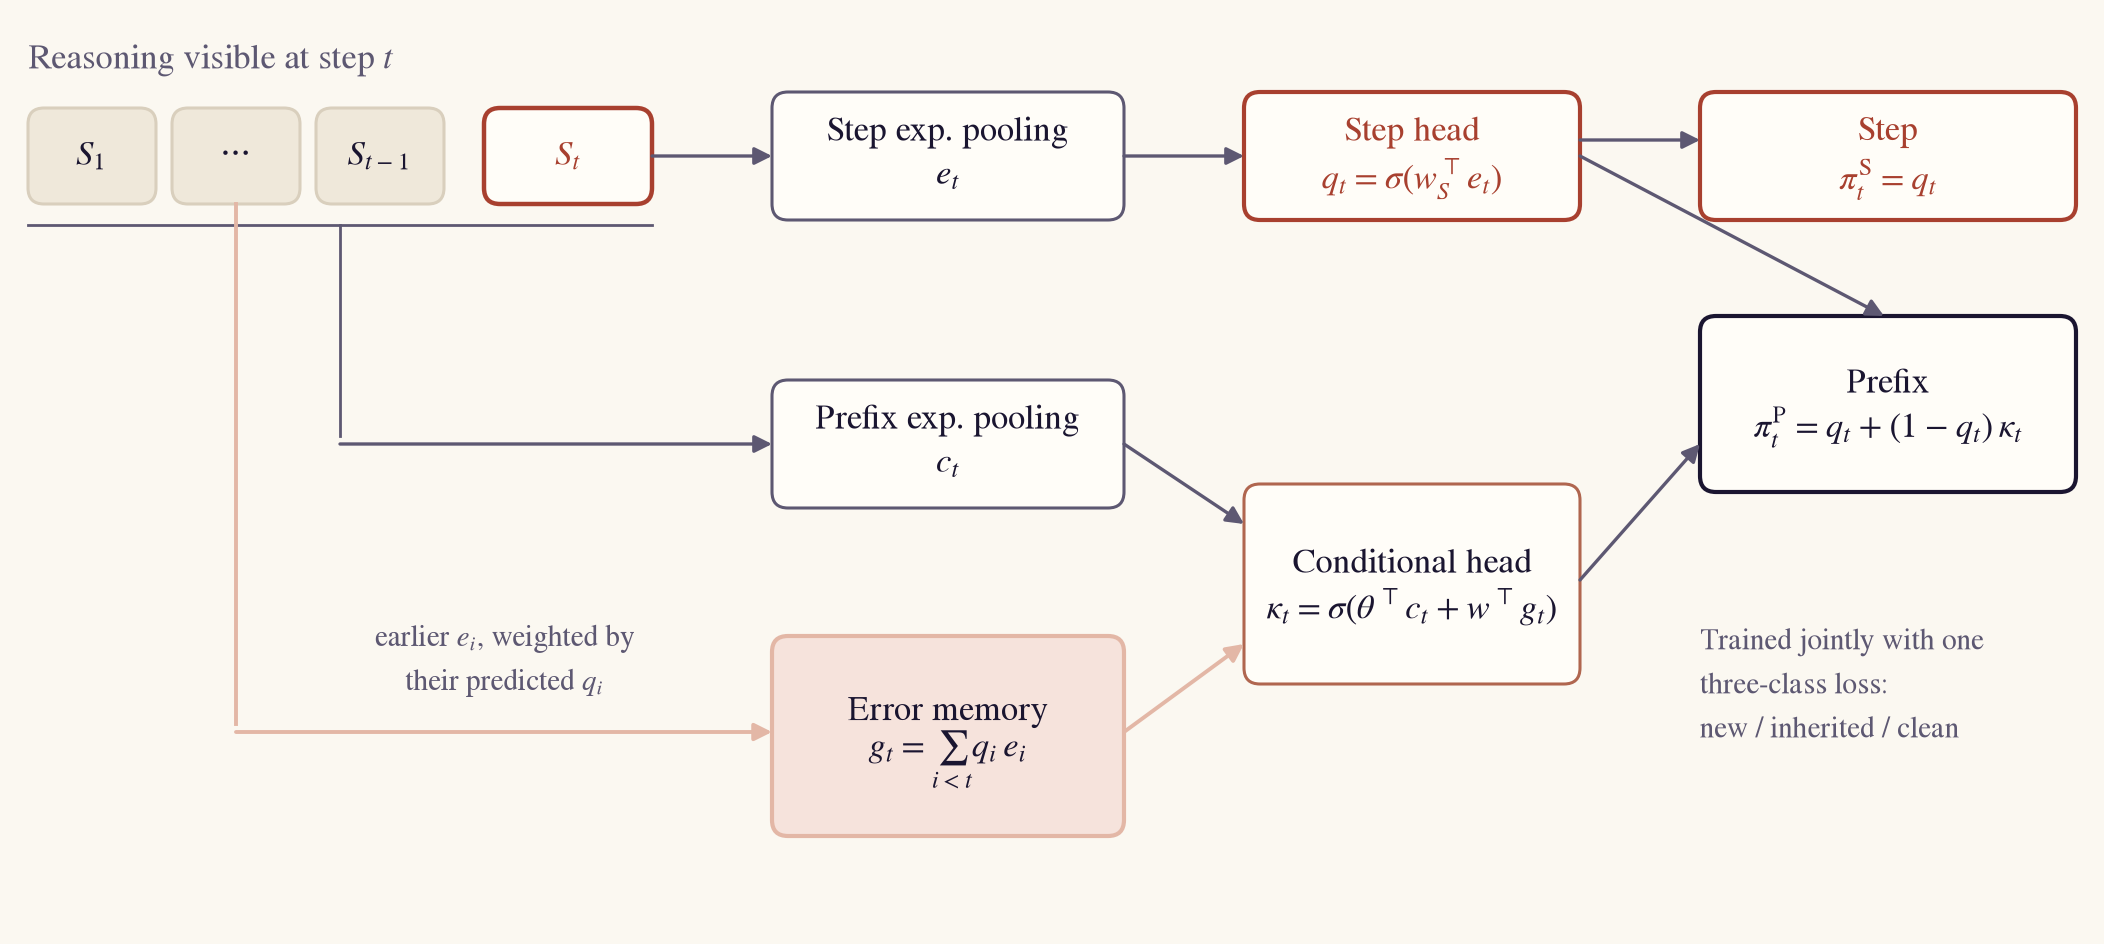
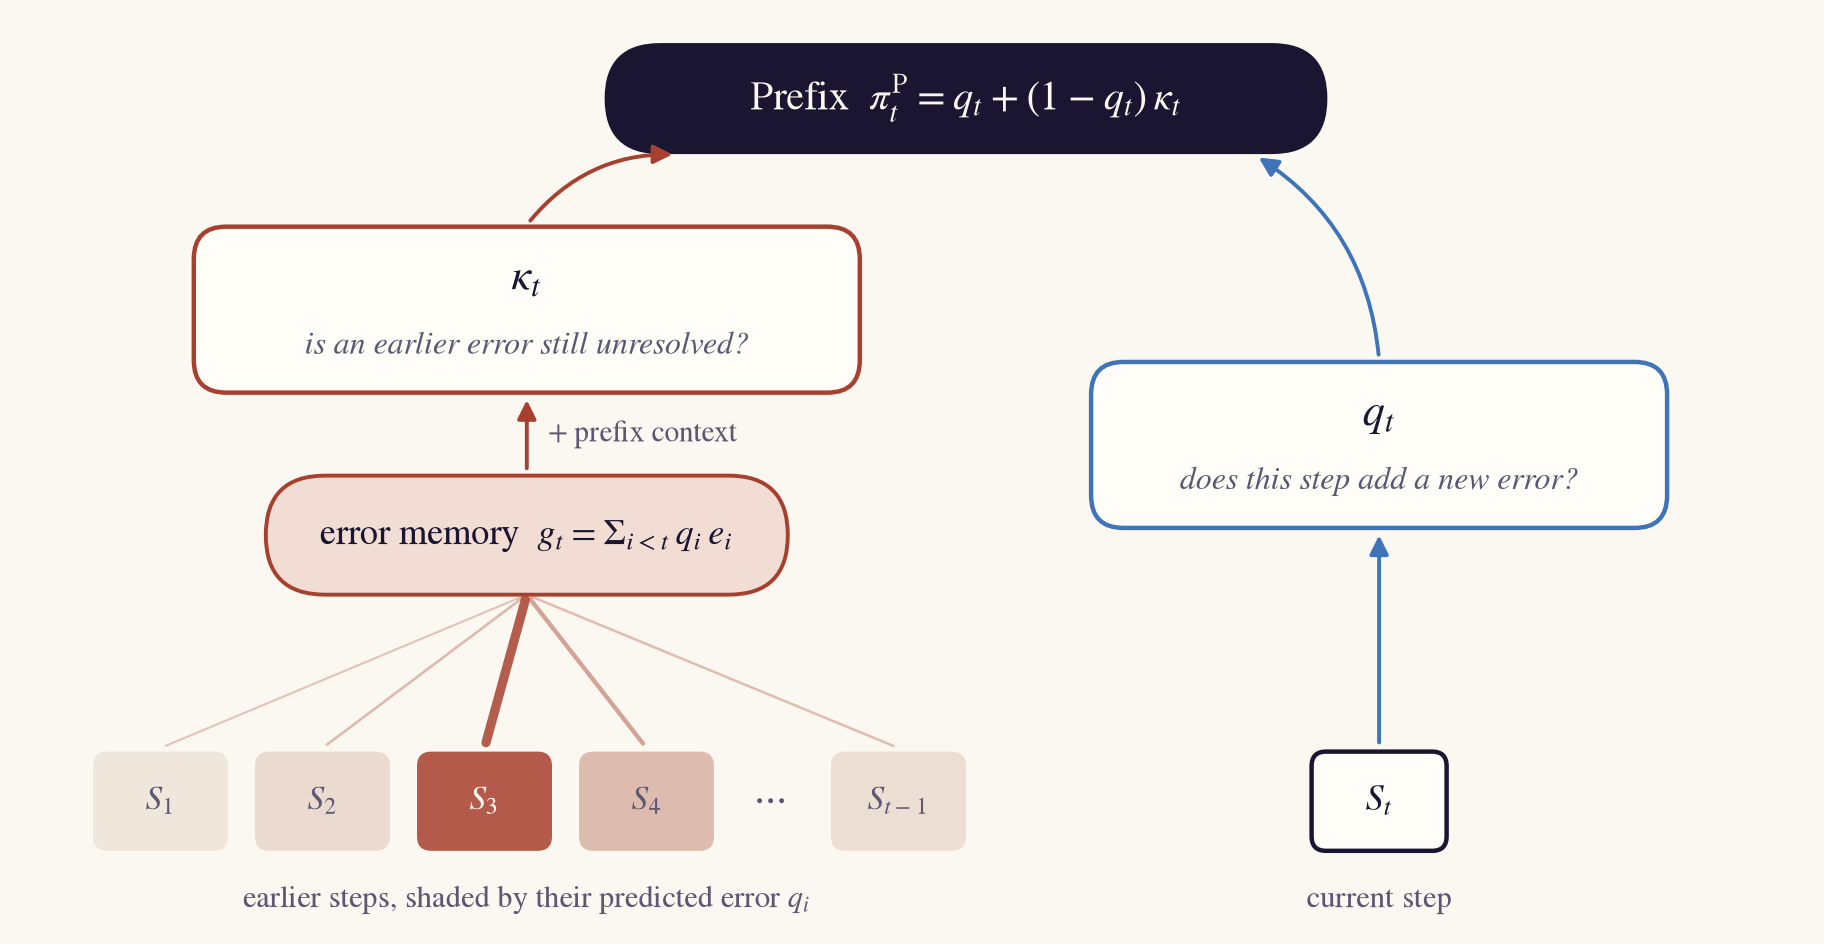
weekly: restructure 2026-11-18 report and redraw the A2 schematic
Rename sections to Background, Theory, Challenge, Method, Result and To do;
add a dataset overview (3 models x 5 domains, 15,697 trajectories, 1.45M
labelled steps); rephrase the Prefix diagnosis and challenge; replace the
detailed A2 diagram with a high-level schematic; list read-out and kappa
design as next steps.

diff --git a/weekly/scripts/2026-11-18_dataset_a2.py b/weekly/scripts/2026-11-18_dataset_a2.py
@@ -1,0 +1,141 @@
+#!/usr/bin/env python3
+"""Dataset overview and high-level A2 schematic for the 2026-11-18 weekly report.
+
+Dataset counts are computed from the frozen 6:2:2 release (labels.jsonl of every model/domain/split; 15,697
+trajectories, 1,445,280 labelled steps). Run from the repository root with the dataset root as argument:
+
+    python weekly/scripts/2026-11-18_dataset_a2.py <streaming_hd_new root>
+"""
+import json
+import sys
+from pathlib import Path
+
+import matplotlib
+
+matplotlib.use("Agg")
+import matplotlib.pyplot as plt
+import numpy as np
+from matplotlib.colors import LinearSegmentedColormap, LogNorm
+from matplotlib.patches import FancyArrowPatch, FancyBboxPatch
+
+OUT = Path("weekly/assets/2026-11-18")
+SURFACE, RAISE, INK, INK2, LINE = "#fbf8f1", "#fffdf8", "#1a1530", "#5d5872", "#d9cfbd"
+ACCENT, ACCENT_SOFT, BLUE = "#a8402f", "#f2ddd5", "#3f74b8"
+plt.rcParams.update({"font.family": "STIXGeneral", "mathtext.fontset": "stix", "font.size": 12,
+                     "figure.facecolor": SURFACE, "axes.facecolor": SURFACE, "savefig.facecolor": SURFACE})
+MODELS = [("qwen3_8_27b", "Qwen3.8-27B"), ("deepseek_r1_distill_llama_8b", "DeepSeek-R1-Distill-Llama-8B"),
+          ("gemma_4_31b_it", "Gemma-4-31B-it")]
+DOMAINS = ["Math", "Science", "Logic", "Multi-hop", "Factuality"]
+
+
+def save(fig, name):
+    fig.savefig(OUT / name, bbox_inches="tight", pad_inches=0.06)
+    plt.close(fig)
+    print("wrote", OUT / name)
+
+
+def counts(root):
+    traj = np.zeros((3, 5), int); steps = np.zeros((3, 5), int)
+    for i, (m, _) in enumerate(MODELS):
+        for j, d in enumerate(DOMAINS):
+            for split in ("train", "val", "test"):
+                for line in open(root / m / d / split / "annotations/labels.jsonl"):
+                    traj[i, j] += 1; steps[i, j] += len(json.loads(line)["labels"]["step"])
+    return traj, steps
+
+
+def fmt(n):
+    return f"{n / 1e6:.2f}M" if n >= 1e6 else f"{n / 1e3:.0f}k" if n >= 1e4 else f"{n / 1e3:.1f}k"
+
+
+def dataset(root):
+    traj, steps = counts(Path(root))
+    cmap = LinearSegmentedColormap.from_list("seq", ["#f7ebe4", "#e3b7a6", "#c46f58", "#8a2f22"])
+    norm = LogNorm(vmin=5e3, vmax=5e5)
+    fig, ax = plt.subplots(figsize=(10.2, 3.9), dpi=200)
+    fig.subplots_adjust(0, 0, 1, 1)
+    ax.set_xlim(-2.9, 6.25); ax.set_ylim(-1.05, 3.75); ax.axis("off")
+    W, H, G = 1.0, 1.0, 0.06
+    for j, d in enumerate(DOMAINS):
+        ax.text(j + 0.5, 3.4, d, ha="center", va="center", fontsize=13, color=INK)
+    ax.text(5.65, 3.4, "Total", ha="center", va="center", fontsize=13, color=INK2)
+    for i, (_, name) in enumerate(MODELS):
+        y = 2 - i
+        ax.text(-0.15, y + 0.5, name, ha="right", va="center", fontsize=12.5, color=INK)
+        for j in range(5):
+            v = steps[i, j]; fc = cmap(norm(v)); dark = norm(v) > 0.55
+            ax.add_patch(FancyBboxPatch((j + G, y + G), W - 2 * G, H - 2 * G, boxstyle="round,pad=0,rounding_size=0.06",
+                                        fc=fc, ec="none"))
+            tc = SURFACE if dark else INK
+            ax.text(j + 0.5, y + 0.6, fmt(v), ha="center", va="center", fontsize=15, color=tc, weight="bold")
+            ax.text(j + 0.5, y + 0.3, f"{traj[i, j]:,} traj.", ha="center", va="center", fontsize=10,
+                    color=SURFACE if dark else INK2)
+        ax.text(5.65, y + 0.6, fmt(steps[i].sum()), ha="center", va="center", fontsize=13, color=INK)
+        ax.text(5.65, y + 0.3, f"{traj[i].sum():,} traj.", ha="center", va="center", fontsize=10, color=INK2)
+    ax.plot([0.05, 4.95], [-0.02, -0.02], color=LINE, lw=1)
+    for j in range(5):
+        ax.text(j + 0.5, -0.3, fmt(steps[:, j].sum()), ha="center", va="center", fontsize=13, color=INK)
+        ax.text(j + 0.5, -0.6, f"{traj[:, j].sum():,} traj.", ha="center", va="center", fontsize=10, color=INK2)
+    ax.text(-0.15, -0.45, "Total", ha="right", va="center", fontsize=12.5, color=INK2)
+    ax.text(5.65, -0.3, fmt(steps.sum()), ha="center", va="center", fontsize=13.5, color=ACCENT, weight="bold")
+    ax.text(5.65, -0.6, f"{traj.sum():,} traj.", ha="center", va="center", fontsize=10, color=INK2)
+    ax.text(-2.85, -0.95, "Cells: labelled steps (colour, log scale) and trajectories; each trajectory has Step, Prefix and Answer labels.",
+            fontsize=10, color=INK2, va="center")
+    save(fig, "dataset.png")
+
+
+def node(ax, x, y, w, h, title, sub, ec, fc=RAISE, tc=INK):
+    ax.add_patch(FancyBboxPatch((x - w / 2, y - h / 2), w, h, boxstyle="round,pad=0,rounding_size=0.18", fc=fc, ec=ec, lw=1.6))
+    ax.text(x, y + 0.17, title, ha="center", va="center", fontsize=16, color=tc)
+    ax.text(x, y - 0.2, sub, ha="center", va="center", fontsize=11.5, color=INK2, style="italic")
+
+
+def arrow(ax, a, b, color=INK2, lw=1.4, rad=0.0):
+    ax.add_patch(FancyArrowPatch(a, b, arrowstyle="-|>", mutation_scale=14, color=color, lw=lw,
+                                 connectionstyle=f"arc3,rad={rad}", shrinkA=2, shrinkB=2))
+
+
+def a2():
+    fig, ax = plt.subplots(figsize=(9.0, 4.6), dpi=200)
+    fig.subplots_adjust(0, 0, 1, 1)
+    ax.set_xlim(0, 10); ax.set_ylim(0, 5.1); ax.axis("off")
+    # reasoning so far: earlier steps shaded by their predicted error probability q_i, current step outlined
+    tint = LinearSegmentedColormap.from_list("q", ["#f4efe5", ACCENT])
+    blocks = [(0.45, "$S_1$", 0.05), (1.35, "$S_2$", 0.12), (2.25, "$S_3$", 0.85), (3.15, "$S_4$", 0.3),
+              (4.55, "$S_{t-1}$", 0.1)]
+    for x, lab, v in blocks:
+        ax.add_patch(FancyBboxPatch((x, 0.45), 0.75, 0.55, boxstyle="round,pad=0,rounding_size=0.08", fc=tint(v), ec="none"))
+        ax.text(x + 0.375, 0.725, lab, ha="center", va="center", fontsize=12, color=SURFACE if v > 0.5 else INK2)
+    ax.text(4.22, 0.725, "$\\cdots$", ha="center", va="center", fontsize=14, color=INK2)
+    xt = 7.22
+    ax.add_patch(FancyBboxPatch((xt, 0.45), 0.75, 0.55, boxstyle="round,pad=0,rounding_size=0.08", fc=RAISE, ec=INK, lw=1.6))
+    ax.text(xt + 0.375, 0.725, "$S_t$", ha="center", va="center", fontsize=13, color=INK)
+    ax.text(2.86, 0.18, "earlier steps, shaded by their predicted error $q_i$", fontsize=11, color=INK2, ha="center", va="center")
+    ax.text(xt + 0.375, 0.18, "current step", fontsize=11, color=INK2, ha="center", va="center")
+    # error memory gathers earlier steps in proportion to q_i
+    mem = (2.86, 2.2)
+    for x, _, v in blocks:
+        ax.add_patch(FancyArrowPatch((x + 0.375, 1.02), (mem[0], mem[1] - 0.33), arrowstyle="-", color=ACCENT,
+                                     lw=0.6 + 3.2 * v, alpha=0.25 + 0.7 * v))
+    ax.add_patch(FancyBboxPatch((mem[0] - 1.45, mem[1] - 0.33), 2.9, 0.66, boxstyle="round,pad=0,rounding_size=0.33",
+                                fc=ACCENT_SOFT, ec=ACCENT, lw=1.4))
+    ax.text(mem[0], mem[1], "error memory  $g_t=\\Sigma_{i<t}\\, q_i\\, e_i$", ha="center", va="center", fontsize=13, color=INK)
+    # the two questions, one column each
+    kap, stp = (2.86, 3.45), (xt + 0.375, 2.7)
+    node(ax, *kap, 3.7, 0.92, "$\\kappa_t$", "is an earlier error still unresolved?", ec=ACCENT)
+    node(ax, *stp, 3.2, 0.92, "$q_t$", "does this step add a new error?", ec=BLUE)
+    arrow(ax, (mem[0], mem[1] + 0.34), (kap[0], kap[1] - 0.47), color=ACCENT)
+    ax.text(mem[0] + 0.12, 2.76, "+ prefix context", fontsize=10.5, color=INK2, va="center")
+    arrow(ax, (stp[0], 1.02), (stp[0], stp[1] - 0.47), color=BLUE)
+    # composition
+    out = (5.3, 4.62)
+    ax.add_patch(FancyBboxPatch((out[0] - 2.0, out[1] - 0.3), 4.0, 0.6, boxstyle="round,pad=0,rounding_size=0.3", fc=INK, ec=INK))
+    ax.text(*out, "Prefix  $\\pi^{\\mathrm{P}}_t = q_t + (1-q_t)\\,\\kappa_t$", ha="center", va="center", fontsize=14.5, color=SURFACE)
+    arrow(ax, (kap[0], kap[1] + 0.47), (out[0] - 1.6, out[1] - 0.31), color=ACCENT, rad=-0.25)
+    arrow(ax, (stp[0], stp[1] + 0.47), (out[0] + 1.6, out[1] - 0.31), color=BLUE, rad=0.25)
+    save(fig, "a2_framework.png")
+
+
+if __name__ == "__main__":
+    dataset(sys.argv[1])
+    a2()

diff --git a/weekly/scripts/2026-11-18_a2.py b/weekly/scripts/2026-11-18_a2.py
@@ -1,5 +1,5 @@
 #!/usr/bin/env python3
-"""A2 figures for the 2026-11-18 weekly report: the framework schematic and the Step/Prefix comparison.
+"""A2 Step/Prefix comparison figure for the 2026-11-18 weekly report (the schematic is in 2026-11-18_dataset_a2.py).
 
 Numbers are copied from published TEST results in this repository (Qwen3.8-27B, single seed 42, VAL-selected layer):
 - A2 fixed: experiments/qwen_c18_a2_series_20261115/README.md (Frozen TEST comparison).
@@ -42,44 +42,6 @@ def save(fig, name):
     print("wrote", OUT / name)
 
 
-def framework():
-    fig, ax = plt.subplots(figsize=(10.4, 4.6), dpi=200)
-    fig.subplots_adjust(0, 0, 1, 1)
-    ax.set_xlim(0, 13); ax.set_ylim(0, 5.75); ax.axis("off")
-    # input: the reasoning so far, earlier steps and the current step
-    ax.text(0.1, 5.45, "Reasoning visible at step $t$", fontsize=12.5, color=INK2, va="center")
-    xs = [0.1, 1.0, 1.9]
-    for x, lab in zip(xs, ["$S_1$", "$\\cdots$", "$S_{t-1}$"]):
-        box(ax, x, 4.55, 0.8, 0.6, lab, fc=CLEAN_FILL, ec=LINE)
-    box(ax, 2.95, 4.55, 1.05, 0.6, "$S_t$", fc=RAISE, ec=NEW, lw=1.6, color=NEW)
-    # Step branch (current step)
-    box(ax, 4.75, 4.45, 2.2, 0.8, "Step exp. pooling\n$e_t$")
-    box(ax, 7.7, 4.45, 2.1, 0.8, "Step head\n$q_t=\\sigma(w_S^\\top e_t)$", ec=NEW, color=NEW, lw=1.5)
-    arrow(ax, (4.0, 4.85), (4.75, 4.85)); arrow(ax, (6.95, 4.85), (7.7, 4.85))
-    # Prefix branch (all visible reasoning tokens)
-    ax.plot([0.1, 4.0], [4.42, 4.42], color=INK2, lw=1.0)
-    ax.plot([2.05, 2.05], [4.42, 3.1], color=INK2, lw=1.0)
-    box(ax, 4.75, 2.65, 2.2, 0.8, "Prefix exp. pooling\n$c_t$")
-    arrow(ax, (2.05, 3.05), (4.75, 3.05))
-    # error memory over earlier steps
-    ax.plot([1.4, 1.4], [4.55, 1.3], color=INHERITED, lw=1.4)
-    box(ax, 4.75, 0.6, 2.2, 1.25, "Error memory\n$g_t=\\sum_{i<t} q_i\\, e_i$", fc="#f6e3dc", ec=INHERITED, lw=1.5)
-    arrow(ax, (1.4, 1.25), (4.75, 1.25), color=INHERITED, lw=1.4)
-    ax.text(3.08, 1.42, "earlier $e_i$, weighted by\ntheir predicted $q_i$", fontsize=10.5, color=INK2, ha="center", va="bottom")
-    # conditional head
-    box(ax, 7.7, 1.55, 2.1, 1.25, "Conditional head\n$\\kappa_t=\\sigma(\\theta^\\top c_t+w^\\top g_t)$", ec=INH_TEXT, color=INK)
-    arrow(ax, (6.95, 3.05), (7.7, 2.55)); arrow(ax, (6.95, 1.25), (7.7, 1.8), color=INHERITED, lw=1.4)
-    # composition
-    box(ax, 10.55, 2.75, 2.35, 1.1, "Prefix\n$\\pi^{\\mathrm{P}}_t=q_t+(1-q_t)\\,\\kappa_t$", ec=INK, lw=1.5)
-    arrow(ax, (9.8, 4.85), (11.7, 3.85)); arrow(ax, (9.8, 2.2), (10.55, 3.05))
-    box(ax, 10.55, 4.45, 2.35, 0.8, "Step\n$\\pi^{\\mathrm{S}}_t=q_t$", ec=NEW, color=NEW, lw=1.5)
-    arrow(ax, (9.8, 4.95), (10.55, 4.95))
-    # training note
-    ax.text(10.55, 1.95, "Trained jointly with one\nthree-class loss:\nnew / inherited / clean", fontsize=10.5,
-            color=INK2, va="top")
-    save(fig, "a2_framework.png")
-
-
 def results():
     domains = ["Logic", "Factuality"]
     panels = [
@@ -115,5 +77,4 @@ def results():
 INH_TEXT = "#b0664f"
 
 if __name__ == "__main__":
-    framework()
     results()

diff --git a/weekly/2026-11-18.md b/weekly/2026-11-18.md
@@ -14,7 +14,7 @@ links: Stage summary|../theory/STAGE_SUMMARY_20261116.md; Notation|../theory/STE
 *Streaming hallucination detection as one chain from Step to Prefix to Answer.*
 
 <!-- kicker: The **task** -->
-## §1 Three levels of one trajectory
+## §1 Background
 
 ![One reasoning trajectory and its three labels.](assets/2026-11-18/background.png)
 
@@ -28,8 +28,10 @@ While the model reasons, each detector reads what has been generated so far and 
 \end{aligned}
 ```
 
+![Streaming HD covers three reasoning models and five domains: 15,697 trajectories and 1.45M labelled steps, split 6:2:2 into TRAIN, VAL and TEST.](assets/2026-11-18/dataset.png)
+
 <!-- kicker: The **decomposition** -->
-## §2 Probability decomposition from first principles
+## §2 Theory
 
 ![The protocol's only constraint, that a new error makes the Prefix erroneous, splits the Prefix probability into two terms. κ is the probability that an earlier error is still unresolved when the current step adds no new error.](assets/2026-11-18/decomposition.png)
 
@@ -40,33 +42,26 @@ The Answer builds on the final Prefix state, with $`\alpha_c`$ the probability o
 ```
 
 <!-- kicker: The **difficulty** -->
-## §3 Challenge: the hard part is κ
+## §3 Challenge
 
 ![(a) Share of Prefix errors that are new or inherited, over 1.45M labelled steps. (b) Mean AUROC of five existing Prefix detectors on TEST. Fresh clean: no error so far. Recovered clean: an earlier error has been resolved.](assets/2026-11-18/prefix_challenge.png)
 
-**Finding.** 85% of Prefix errors are inherited. Existing detectors separate them from positions before any error (0.93) far better than from positions whose earlier error was resolved (0.66).
+**Diagnosis.** 85% of Prefix errors are inherited. Existing detectors separate them from positions before any error (0.93) far better than from positions whose earlier error was resolved (0.66).
 
-**Motivation.** The difficulty of Prefix detection lies in $`\kappa_t`$: deciding whether an earlier error is still unresolved.
+**Challenge.** Prefix detection hinges on $`\kappa_t`$: distinguishing an inherited error that remains unresolved from one that has already been corrected, a distinction existing detectors barely capture.
 
 <!-- kicker: The **framework** -->
-## §4 Method: A2, an error memory for κ
+## §4 Method
 
-![A2 at step t. The Step head reads the current step; the conditional head reads the whole prefix and an error memory of earlier steps, weighted by their predicted Step probabilities.](assets/2026-11-18/a2_framework.png)
-
-**Idea.** To judge whether an earlier error is still unresolved, $`\kappa_t`$ should know which earlier steps were likely wrong and what they said. A2 keeps that as a memory of earlier step features, each weighted by its predicted Step probability:
-
-```math
-g_t=\sum_{i<t} q_i\,e_i,\qquad
-\kappa_t=\sigma\!\left(b+\theta^\top c_t+w^\top g_t\right),\qquad
-\pi^{\mathrm{P}}_t=q_t+(1-q_t)\,\kappa_t .
-```
-
-Step and conditional heads are linear and trained jointly with one three-class loss over new error, inherited error and clean; the weights $`q_i`$ in the memory are not back-propagated. A2 is the backbone for the next explorations: how $`q`$ is obtained (frozen or trained), how $`\kappa`$ is supervised, and what the memory stores.
+![A2. The Step detector asks whether the current step adds a new error; κ asks whether an earlier error is still unresolved, reading the prefix together with an error memory that weights earlier steps by their predicted Step probabilities.](assets/2026-11-18/a2_framework.png)
 
 <!-- kicker: The **numbers** -->
-## §5 Results
+## §5 Result
 
 ![Step and Prefix TEST AUROC on Qwen3.8-27B. The best baseline is the highest published AUROC in each domain and level. Single seed, layer selected on VAL.](assets/2026-11-18/a2_results.png)
 
 <!-- kicker: The **plan** -->
-## §6 Next
+## §6 To do
+
+- Building on the A2 framework, try different read-outs for the Step and Prefix inputs (e.g. last token).
+- Building on the A2 framework, explore κ designs: how κ is supervised and what the error memory stores.
